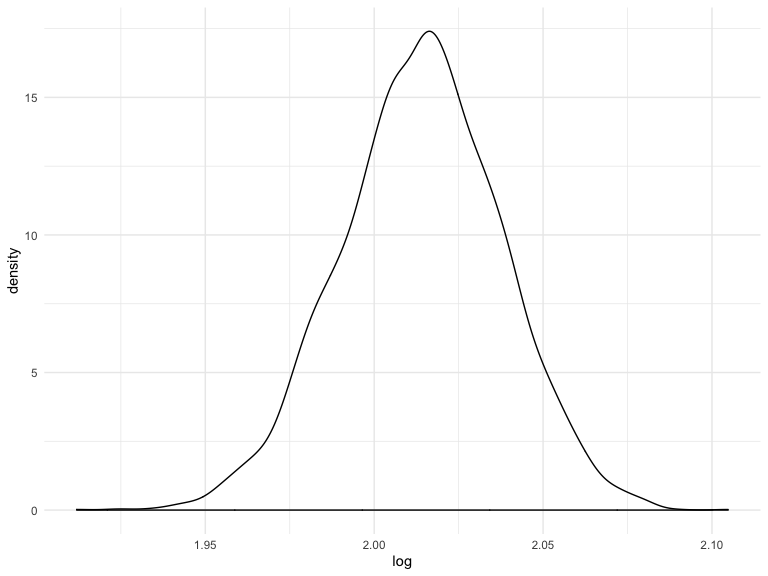
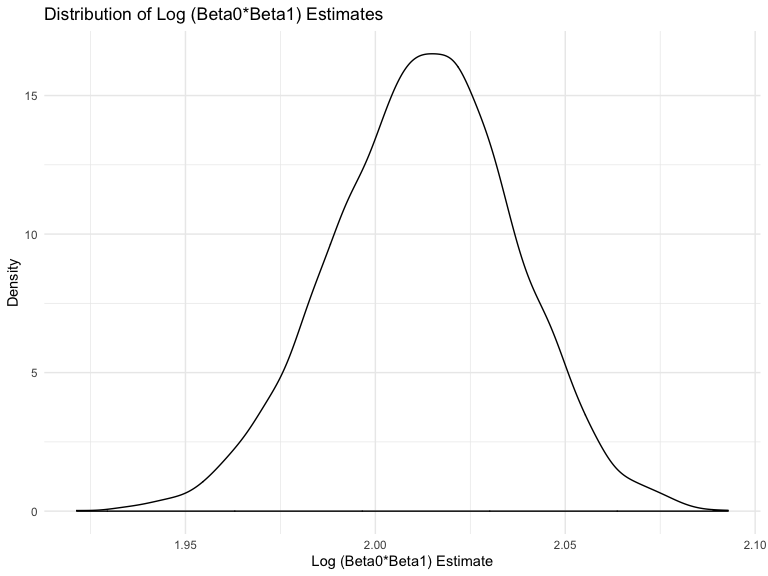
Added labels for plots -- final commit

diff --git a/p8105_hw6_md3851.md b/p8105_hw6_md3851.md
@@ -6,6 +6,8 @@ Misbath Daouda
 Problem 1
 =========
 
+### Model Selection
+
 ``` r
 bwt_data = read_csv("./data/birthweight.csv") %>% 
   janitor::clean_names() %>%
@@ -92,6 +94,8 @@ model_selection
 
 Model selection was automated with the stepAIC function from the MASS package. The direction was set to "both" so that both forward and backward selection were completed. The results return the best model, which is then labeled as model\_1 below.
 
+### Residual Plots
+
 ``` r
 model_1 = lm(bwt ~ babysex + bhead + blength + delwt + fincome + 
     gaweeks + mheight + mrace + parity + ppwt + smoken, data = bwt_data)
@@ -143,6 +147,8 @@ bwt_data %>%
 
 The three models and their associated residual plots are presented above.
 
+### Cross validation
+
 ``` r
 cv_df = 
   crossv_mc(bwt_data, 100)
@@ -171,10 +177,12 @@ cv_plot
 
 <img src="p8105_hw6_md3851_files/figure-markdown_github/unnamed-chunk-4-1.png" width="90%" />
 
-The cross-validation plot above shows the distribution of RMSE values for each candidate model. The RMSE is the square root of the variance of the residuals. It indicates the absolute fit of the model to the data–how close the observed data points are to the model’s predicted values. Given that model\_1 has the lowest RMSE values, this suggests that it performs better than the two other models. Similarly, model\_2 performs better than model\_3.
+The cross-validation plot above shows the distribution of RMSE values for each candidate model. The RMSE is the square root of the variance of the residuals. It indicates the absolute fit of the model to the data or how close the observed data points are to the model’s predicted values. Given that model\_1 has the lowest RMSE values, this suggests that it performs better than the two other models. Similarly, model\_2 performs better than model\_3.
 
 Problem 2
 =========
+
+### Creating bootstraps samples
 
 ``` r
 weather_df = 
@@ -209,16 +217,16 @@ boot_straps_tidy
     ## # A tibble: 5,000 x 4
     ##    .id   beta0 beta1   log
     ##    <chr> <dbl> <dbl> <dbl>
-    ##  1 0001   6.96  1.05  1.99
-    ##  2 0002   7.21  1.05  2.03
-    ##  3 0003   7.38  1.05  2.04
-    ##  4 0004   6.63  1.09  1.98
-    ##  5 0005   7.28  1.03  2.02
-    ##  6 0006   7.14  1.05  2.02
-    ##  7 0007   7.31  1.04  2.02
-    ##  8 0008   6.97  1.07  2.01
-    ##  9 0009   7.35  1.02  2.02
-    ## 10 0010   7.03  1.04  1.99
+    ##  1 0001   7.28  1.04  2.03
+    ##  2 0002   7.19  1.03  2.01
+    ##  3 0003   7.34  1.04  2.03
+    ##  4 0004   7.01  1.06  2.00
+    ##  5 0005   7.31  1.02  2.01
+    ##  6 0006   6.89  1.06  1.99
+    ##  7 0007   7.10  1.04  2.00
+    ##  8 0008   7.21  1.04  2.02
+    ##  9 0009   7.11  1.04  2.00
+    ## 10 0010   7.25  1.04  2.02
     ## # … with 4,990 more rows
 
 ``` r
@@ -236,35 +244,53 @@ boot_straps_glance
     ## # A tibble: 5,000 x 2
     ##    .id   r.squared
     ##    <chr>     <dbl>
-    ##  1 0001      0.917
-    ##  2 0002      0.913
-    ##  3 0003      0.911
-    ##  4 0004      0.916
-    ##  5 0005      0.916
-    ##  6 0006      0.915
-    ##  7 0007      0.923
-    ##  8 0008      0.900
-    ##  9 0009      0.922
-    ## 10 0010      0.902
+    ##  1 0001      0.893
+    ##  2 0002      0.912
+    ##  3 0003      0.917
+    ##  4 0004      0.901
+    ##  5 0005      0.920
+    ##  6 0006      0.923
+    ##  7 0007      0.904
+    ##  8 0008      0.901
+    ##  9 0009      0.906
+    ## 10 0010      0.908
     ## # … with 4,990 more rows
+
+### Visualizing distribution of estimates
 
 ``` r
 log_plot = boot_straps_tidy %>% 
   ggplot(aes(x = log)) +
-         geom_density()
+    geom_density() + 
+    labs(
+    x = "Log (Beta0*Beta1) Estimate",
+    y = "Density",
+    title = "Distribution of Log (Beta0*Beta1) Estimates")
+
 log_plot
 ```
 
 <img src="p8105_hw6_md3851_files/figure-markdown_github/plots-1.png" width="90%" />
 
+The estimates for the log value follow an approximately normal distribution, except for a small divot at the very top of the peak. There is also a larger tail towards the lower values than higher values which could indicate that large outliers are excluded from the bootstrap more than smaller outliers.
+
 ``` r
 r_sq_plot = boot_straps_glance %>% 
   ggplot(aes(x = r.squared)) +
-         geom_density()
+    geom_density() + 
+    labs(
+    x = "R squared Estimate",
+    y = "Density",
+    title = "Distribution of R Squared Estimates"
+    )
 r_sq_plot 
 ```
 
-<img src="p8105_hw6_md3851_files/figure-markdown_github/plots-2.png" width="90%" />
+<img src="p8105_hw6_md3851_files/figure-markdown_github/unnamed-chunk-6-1.png" width="90%" />
+
+The estimates for the r squared value also follow a distribution close to normal, with a larger tail towards the lower values than higher values. This could indicate that large outliers are excluded from the bootstrap more than smaller outliers.
+
+### Determining 95% CI
 
 ``` r
 CI_rsquared = 
@@ -294,10 +320,8 @@ CI_log
 
 |  perc\_2.5|  perc\_97.5|
 |----------:|-----------:|
-|       1.97|        2.06|
+|       1.96|        2.06|
 
-``` r
-#quantile(pull(boot_straps_tidy, log), probs =c(0.025, 0.975))
+The 95% CI for the log estimates ranges from 1.96-2.05.
 
-#quantile(pull(boot_straps_glance, r.squared), probs =c(0.025, 0.975))
-```
+The 95% CI for the rsquared estimates ranges from 0.89-0.93.
